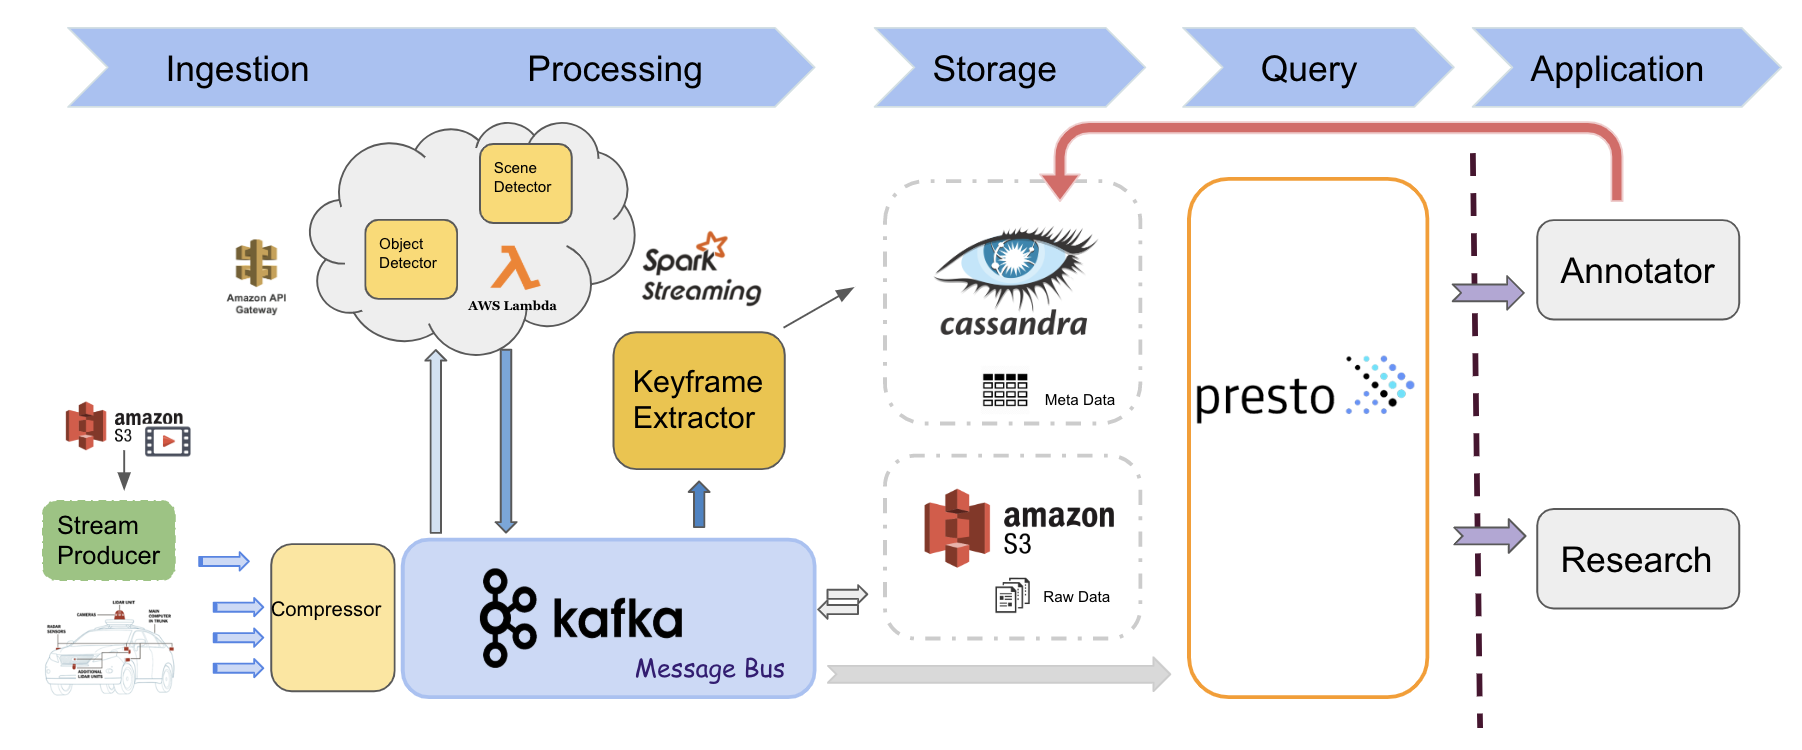
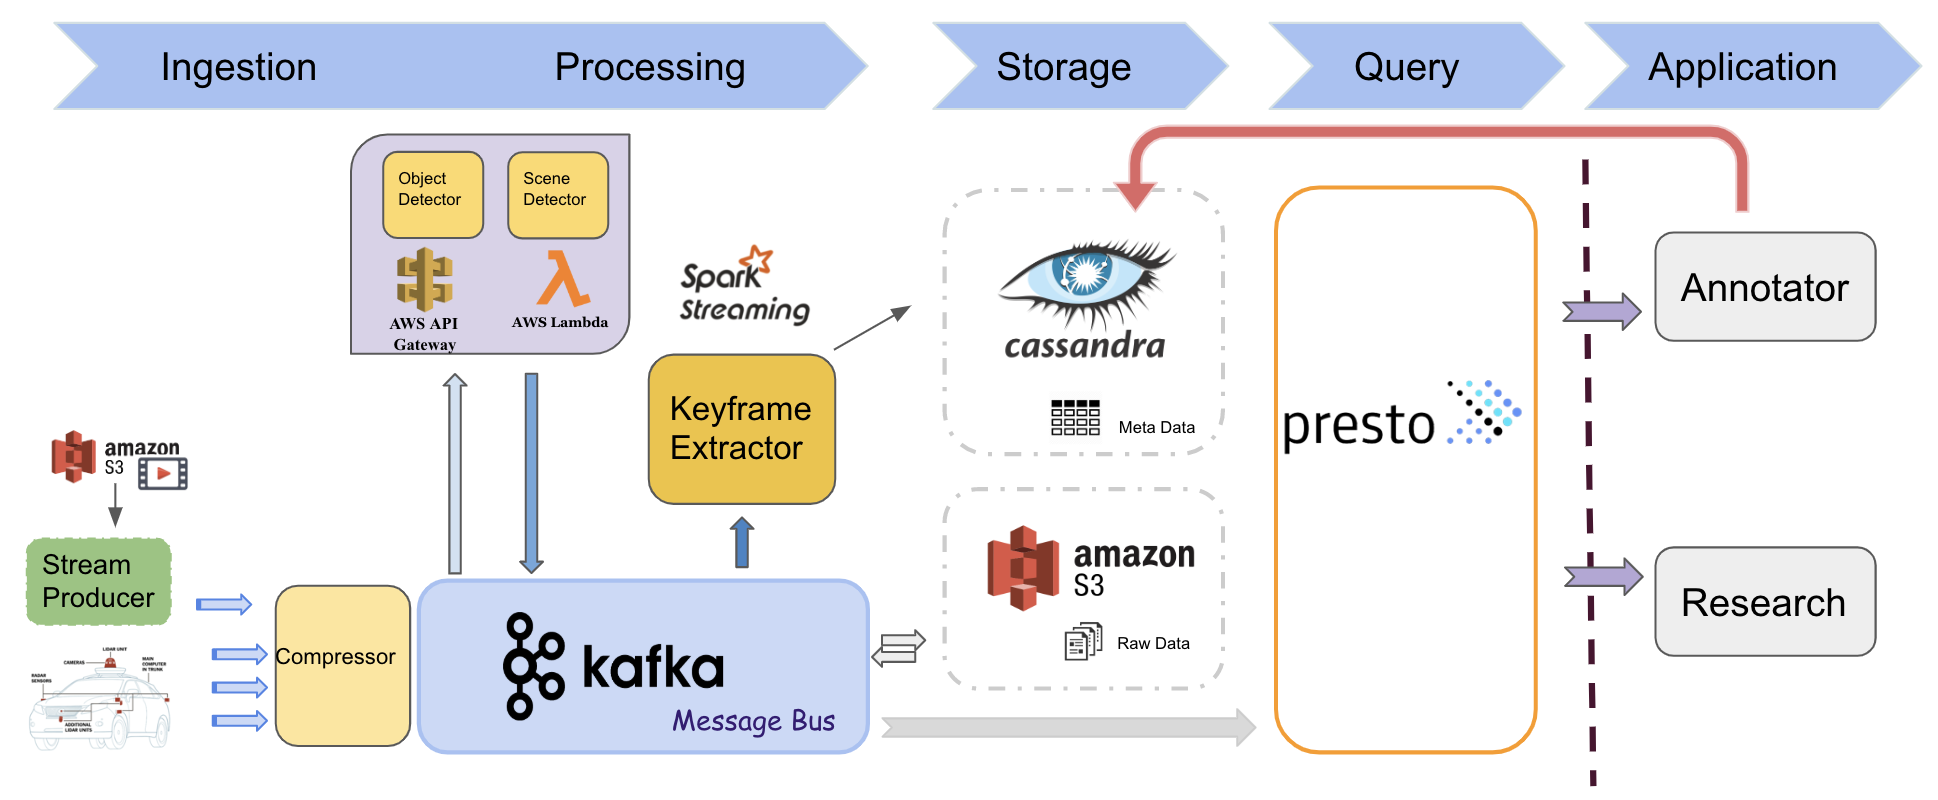
Progress descrition in readme

diff --git a/src/awss3/writer_s3.py b/src/awss3/writer_s3.py
@@ -3,11 +3,11 @@
 
 """Write data to AWS S3"""
 
-from src.awss3.connector_s3 import S3Connector
 import cv2
 import os
 from src.params import TMP_KEY_PREFIX, STORE_KEY_PREFIX, TMP_FOLER
 from src.utils import get_date_from_timestamp
+from src.awss3.connector_s3 import S3Connector
 
 
 class S3TmpWriter(object):

diff --git a/README.md b/README.md
@@ -2,44 +2,85 @@
 
 ## Introduction
 
-<img src="./images/chances.png" height="200" width="400" />
+<img src="./images/chances.png" height="225" width="500" />
 
-Autonomous vehicles keep generating a large amount of diverse sensor data, accompanied with four challenges for data engineering.
+The prosperity of autonomous vehicle carries huge chances and challenges, research teams are in great need of diverse labeling dataset, which brings four challenges for data engineering.
 
-* **Data Acquisition**: How to gain more various data while eliminate data redundancy?
-* **Data Storage**: How to clean data? And how to store annotations?
+* **Data Acquisition**: How to get diverse data sources?
+* **Data Storage**: How to decrease data redundancy?
 * **Data Management**: How to support scene selection for research teams?
 * **Data Labeling**: How to decrease the load for manual annotation?
 
-Our project is a data engineering system ingests real-time streaming data from common cars' driving recorders, then uses object detection model to auto-annotate the video and extract keyframes that are significant for a manual check. This platform could greatly speed up the labeling process, and with multiple metadata generated during different stages, we could manage collected data's diversity and quality, then make it a data ecosystem to support the data demand of self-driving car field's development.
+Our project try to build a data engineering system ingests real-time streaming data from common cars' dash cam, then uses build-in ML model to auto-annotate the video and extract keyframes that are significant for a manual annotator to check.
+
+This platform could:
+1. Greatly speed up the human labeling process
+2. Using metadata (auto and manual labeled) to manage collected data's diversity and quality
+3. Finally being able to support the datasets demand of self-driving car field's development
 ![Ecosystem](./images/ecosystem.png)
 
 ## Engineering
 
 ### Dataset
 
-There are sufficient datasets to support test for batch processing and streaming processing, which related to different ways of data gathering in real-world.
+During development period, we use [BDD100K](https://bdd-data.berkeley.edu/) dataset published by Berkeley Deep Driver to simulate real-time video streaming for testing purpose.
 
-* For batch processing: (Recorded data upload method)
-  * [BDD100K](https://bdd-data.berkeley.edu/)
-  * All camera vedios
-  * Size: ~ 1.8 TB
-  * Directly download
-  * This could also be set as streaming for testing
-* For streaming processing: (IoT upload method)
-  * [nuScenes](https://www.nuscenes.org/download)
-  * Synchronized multi-type sensor dataset
-  * Size: ~ 30 GB keyframes for 20 hours driving
-  * Directly download
+This dataset includes about 1.8 TB driving camera recorded videos.
+
+Finally, from a production perspective, we plan to realize connecting the system input with real car's dash cam and support user upload their records by directly upload video files.
 
 ### Tech Stack
 
 ![Techstack](./images/techstack_v3.png)
 
+1. Kafka: used as message bus to transmit stream data to different processing units, and it helps decouple modules to make the architecture flexible when adding new functions.
+2. Spark Streaming: used to process streaming data which are metadata describing the frames of videos.
+3. AWS Lambda and API Gateway: used to deploy high computational cost modules, which could greatly reduce the load for our processing cluster and it's efficient.
+4. AWS S3: used to store raw data, frames of videos.
+5. Cassandra: used to store metadata describing the frames, which need to support huge volumes of data ingestion, and Cassandra is an efficient write-oriented database and really good with time-series data.
+6. Presto: used to access and gathering data from multiple data storage media efficiently.
+7. Flask: as user interface used for showing dashboard.
+
 ### Engineering Challenges
 
-* Ingestion and join data of different type
-* Management of media data with various meta-data
+1. Solving the latency problem during high throughput period
+  * Using Kafka's partition and consumer groups property
+  * Deploy modules with huge computational cost on AWS Lambda as API
+  * (Next) Auto scaling on consumers
+
+2.  Maintain the diversity of dataset
+  * Generate data's feature distribution statistic during streaming processing stage
+  * Selectively archive data according to the feature distribution report
+
+![Challenges Tackling](./images/challenge.png)
+About figure shows the detail design for solving these two challenges.
+
+**Some facts about the challenges we encountered**
+1. The incoming video streaming has huge throughput, the size of frames is large than normal text files.
+2. Object and Scene detection models costs huge computational power, it's a bottle neck causing the latency problem. And after calculating the expenditure based on possible throughput for real project, we think it more efficient to use AWS Lambda wrapped as API. Which will have about 10s latency for each images.
+3. Not all input data are valuable for research, and it will cost so many space to maintain all data.
+
+**How consumers workers to tackle challenges**
+
+* Porter: store the raw image on S3 (a temporary bucket) and get the key to access the data. It is a very large consumer group consume data on topic with many partitions. Used to decrease the volume load of later messages.
+* Object and Scene Detector: request Object detection API to get metadata about objects in frames. The related topic partition and consumer group size about $FPS * Lentecy$ which could avoid the waiting of incoming data.
+* Extractor: find keyframes for human manual checking and also in charge of judge whether the frames is valuable enough for archiving according to meta data.
+* Librarian: move valuable raw data from temporary bucket to archive, and delete others.
+* DB Sinker: taking charge of storing metadata into database and generate the report.
+
+In summary:
+
+**Decreasing latency**: Porter, Detectors
+
+**Speeding up labeling**: Detectors, Extractor
+
+**For dataset diversity**: Extractor, Librarian, DB Sinker
+
+### Project File Architecture
+
+![File Architecture](./images/architecture.png)
+
+Above shows how the project code base is arranged.
 
 ### Setup
 

diff --git a/tests/README.md b/tests/README.md
@@ -1,0 +1,15 @@
+# Progress Tests
+
+Here are some tests during the development period for assuring specific processes.
+
+* Kafka_communication
+
+It tests that Kafka module, producer, consumer and Cassandra Sinker could work.
+
+* Video
+
+It tests Kafka's configuration could handle large message like video stream.
+
+* Pipeline
+
+It tests for a single video producer, all types of consumers could work as their functions.
